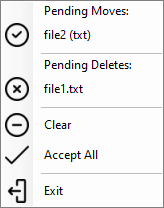
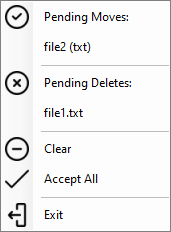
fix menu

diff --git a/src/DiffEngineTray/MenuBuilder.cs b/src/DiffEngineTray/MenuBuilder.cs
@@ -20,7 +20,7 @@ static class MenuBuilder
         };
         menu.Closed += delegate { CleanTransientMenus(items); };
 
-        var exitItem = new MenuButton("Exit", Images.Exit, exit);
+        var exitItem = new MenuButton("Exit", exit, Images.Exit);
         items.Add(exitItem);
 
         return menu;
@@ -41,17 +41,18 @@ static class MenuBuilder
         }
 
         yield return new ToolStripSeparator();
-        yield return new MenuButton("Accept All", Images.AcceptAll, tracker.AcceptAll);
-        yield return new MenuButton("Clear", Images.Clear, tracker.Clear);
+        yield return new MenuButton("Accept All", tracker.AcceptAll, Images.AcceptAll);
+        yield return new MenuButton("Clear", tracker.Clear, Images.Clear);
 
         if (tracker.Deletes.Any())
         {
             yield return new ToolStripSeparator();
             foreach (var delete in tracker.Deletes)
             {
-                yield return new MenuButton($"{delete.Name}", Images.Delete, () => tracker.Accept(delete));
+                yield return new MenuButton($"{delete.Name}", () => tracker.Accept(delete));
             }
-            yield return new ToolStripLabel("Pending Deletes:");
+
+            yield return new MenuButton("Pending Deletes:", tracker.AcceptAllDeletes, Images.Delete);
         }
 
         if (tracker.Moves.Any())
@@ -59,9 +60,10 @@ static class MenuBuilder
             yield return new ToolStripSeparator();
             foreach (var move in tracker.Moves)
             {
-                yield return new MenuButton($"{move.Name} ({move.Extension})", Images.Accept, () => tracker.Accept(move));
+                yield return new MenuButton($"{move.Name} ({move.Extension})", () => tracker.Accept(move));
             }
-            yield return new ToolStripLabel("Pending Moves:");
+
+            yield return new MenuButton("Pending Moves:", tracker.AcceptAllMoves, Images.Accept);
         }
     }
 }

diff --git a/src/DiffEngineTray/Tracker.cs b/src/DiffEngineTray/Tracker.cs
@@ -199,6 +199,30 @@ class Tracker :
         ToggleActive(wasActive);
     }
 
+    public void AcceptAllDeletes()
+    {
+        var wasActive = TrackingAny;
+        foreach (var delete in deletes.Values)
+        {
+            File.Delete(delete.File);
+        }
+
+        deletes.Clear();
+        ToggleActive(wasActive);
+    }
+
+    public void AcceptAllMoves()
+    {
+        var wasActive = TrackingAny;
+        foreach (var move in moves.Values)
+        {
+            InnerMove(move);
+        }
+
+        moves.Clear();
+        ToggleActive(wasActive);
+    }
+
     public ICollection<TrackedDelete> Deletes
     {
         get => deletes.Values;

diff --git a/src/DiffEngineTray/MenuButton.cs b/src/DiffEngineTray/MenuButton.cs
@@ -5,7 +5,7 @@ using System.Windows.Forms;
 class MenuButton :
     ToolStripMenuItem
 {
-    public MenuButton(string text, Image image, Action action) :
+    public MenuButton(string text, Action action, Image? image = null) :
         base(text, image)
     {
         ImageScaling = ToolStripItemImageScaling.None;
